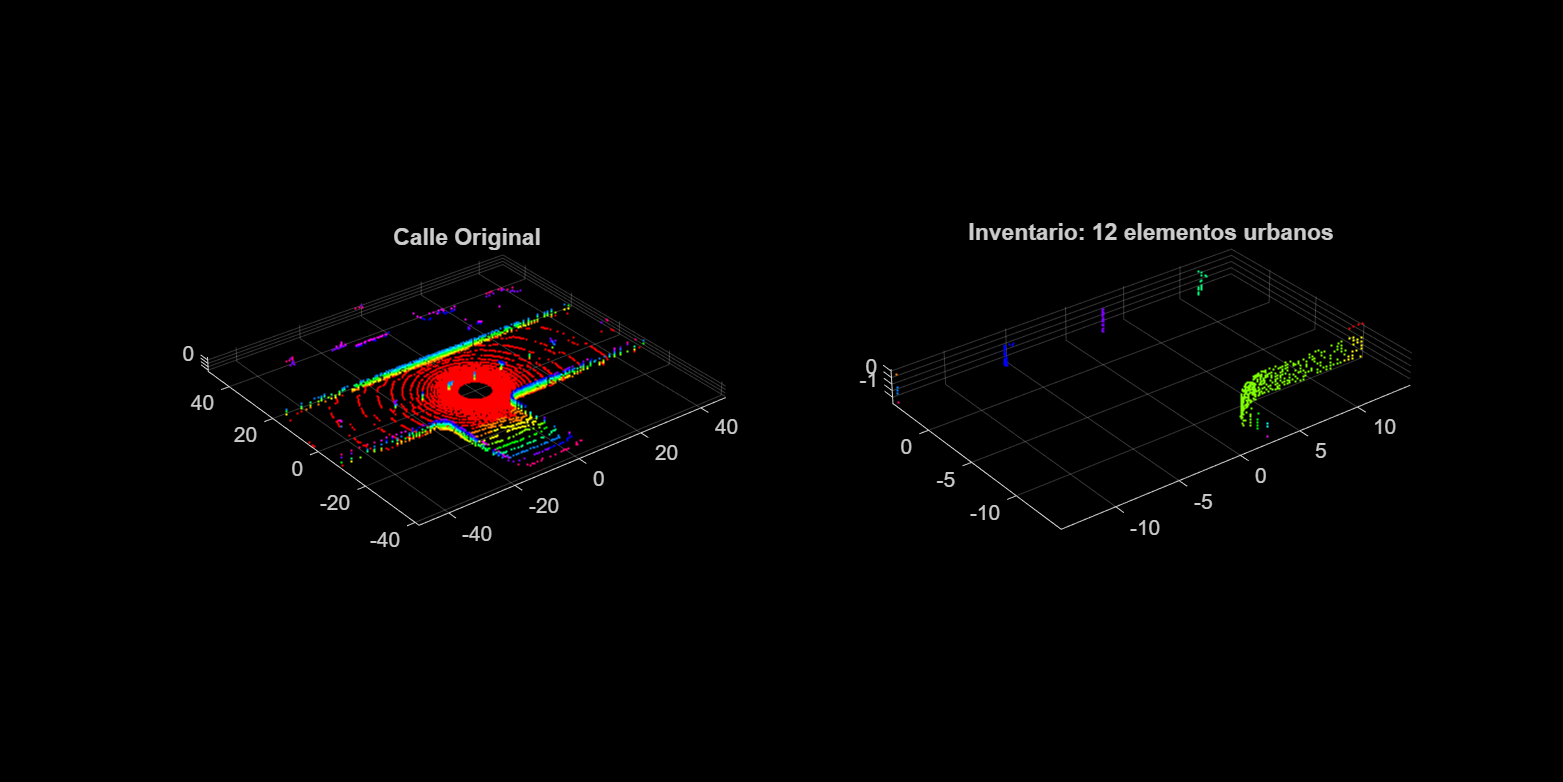
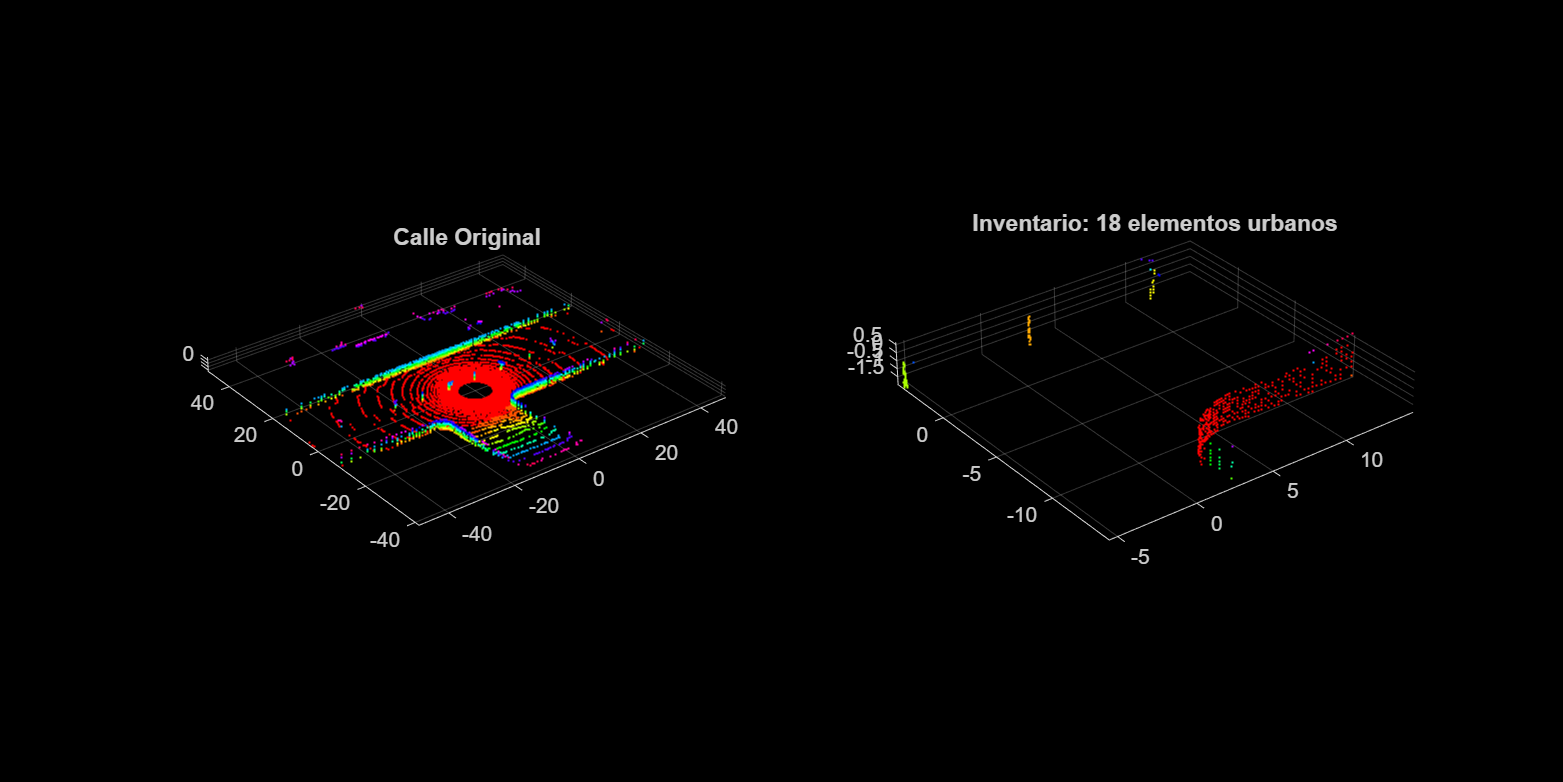
Funciona. Primer boceto

diff --git a/Practica 1/Desafio_Telefono_Aislado/aislar_telefono.m b/Practica 1/Desafio_Telefono_Aislado/aislar_telefono.m
@@ -12,30 +12,40 @@ disp('1. Nube de objetos original cargada.');
 
 % --- Fase Angular: Recorte Geométrico Secuencial ---
 
-% 2. Quitar Plano 1 (Suelo/Mesa) - Bajamos la tolerancia drásticamente a 0.01
-[~, ~, out1] = pcfitplane(pc, 0.015);
+% 2. Quitar Plano 1 (Suelo/Mesa) - Tolerancia equilibrada (2 cm)
+[~, ~, out1] = pcfitplane(pc, 0.02);
 resto = select(pc, out1);
 disp('2. Mesa/Suelo eliminado.');
 
 % 3. Quitar Plano 2 (Pared de fondo)
-[~, ~, out2] = pcfitplane(resto, 0.015);
+[~, ~, out2] = pcfitplane(resto, 0.02);
 resto = select(resto, out2);
 disp('3. Primera pared eliminada.');
 
-% 4. Quitar Plano 3 (Segunda pared lateral)
-[~, ~, out3] = pcfitplane(resto, 0.015);
+% 4. Quitar Plano 3 (Segunda lateral o superficie secundaria)
+[~, ~, out3] = pcfitplane(resto, 0.02);
 resto = select(resto, out3);
 disp('4. Segunda pared eliminada.');
 
-% 5. Quitar Cilindro
-[~, ~, outCil] = pcfitcylinder(resto, 0.015);
+% 5. Quitar Cilindro (bote)
+[~, ~, outCil] = pcfitcylinder(resto, 0.02);
 resto = select(resto, outCil);
 disp('5. Cilindro u objeto tubular eliminado.');
 
-% 6. Quitar Esfera
-[~, ~, outEsf] = pcfitsphere(resto, 0.015);
-nube_telefono = select(resto, outEsf); 
-disp('6. Esfera eliminada. Extrayendo el residuo (Teléfono).');
+% 6. Quitar Esfera (pelota)
+[~, ~, outEsf] = pcfitsphere(resto, 0.02);
+nube_sucia = select(resto, outEsf); 
+
+% --- Mejora de Calidad Computacional ---
+% Al aplicar RANSAC puramente geométrico, siempre quedan algunas 'chispas'
+% flotando (ruido residual) que desastabilizan visualmente al sujeto restante.
+% 7. Segmentación final: nos quedamos solo con la masa contigua principal.
+[labels, numClusters] = pcsegdist(nube_sucia, 0.03); 
+val_freq = mode(labels); % Hallar el grupo numérico que posee más puntos
+idx_telefono = find(labels == val_freq);
+nube_telefono = select(nube_sucia, idx_telefono);
+
+disp('6. Esfera eliminada. Teléfono destilado del ruido flotante.');
 
 % =========================================================================
 % Visualización del Resultado Final

diff --git a/Practica 1/Desafio_Inventario_Urbano/inventario_urbano.m b/Practica 1/Desafio_Inventario_Urbano/inventario_urbano.m
@@ -23,24 +23,33 @@ z_limits = [-2, 5];   % Evitamos el cielo y ruido bajo tierra
 roi = [x_limits; y_limits; z_limits];
 idx_roi = findPointsInROI(pc, roi);
 pc_filtrada = select(pc, idx_roi);
-disp('2. Recorte de Región de Interés (Slider simulado) aplicado.');
+
+% --- Optimización Computacional ---
+% La calle es inmensa. Hacemos un downsample para retener solo 1 punto representativo
+% por cada bloque de 10cm, aligerando el cálculo x100 y limpiando el ruido general
+gridStep = 0.1; 
+pc_filtrada = pcdownsample(pc_filtrada, 'gridAverage', gridStep);
+disp('2. Recorte ROI y Downsampling (0.1m) ejecutado exitosamente.');
 
 
 % 3. Extracción del asfalto/calzada
 % Sabiendo que el suelo es puramente horizontal (vector Director Z)
-distanciaMax = 0.3; % Métrica superior frente al ruido de los bordillos
+distanciaMax = 0.25; % Tolerancia
 [~, ~, idx_sinSuelo] = pcfitplane(pc_filtrada, distanciaMax, [0,0,1]);
 
 % Nos quedamos con el resto, es decir, todo lo que "sobresale" del asfalto
-pc_objetos = select(pc_filtrada, idx_sinSuelo);
-disp('3. Asfalto y aceras matemáticamente purgadas.');
+pc_objetos_sucios = select(pc_filtrada, idx_sinSuelo);
+
+% Limpiamos manchas flotantes de asfalto mal recortadas para que el clustering no falle
+pc_objetos = pcdenoise(pc_objetos_sucios, 'NumNeighbors', 10, 'Threshold', 0.5);
+disp('3. Asfalto purgado y ruido denoisado.');
 
 
 % --- Fase 2: Inventariado y Clustering ---
 
 % 4. Detección heurística de árboles, coches y estructuras
-% Dado que un árbol no es una esfera ni un cilindro perfecto, usamos distancias.
-distanciaVacio = 0.6; % Si hay un hueco mayor a 60cm, consideramos que es un objeto diferente
+% Dado que un árbol no es una forma pura, usamos segmentación espacial.
+distanciaVacio = 0.5; % Huecos superiores a medio metro dividen la geometría como objetos distintos
 [etiquetas, numObjetos] = pcsegdist(pc_objetos, distanciaVacio);
 
 disp(['4. Segmentación finalizada. Detectados ', num2str(numObjetos), ' objetos (ej. árboles, personas, papeleras).']);
